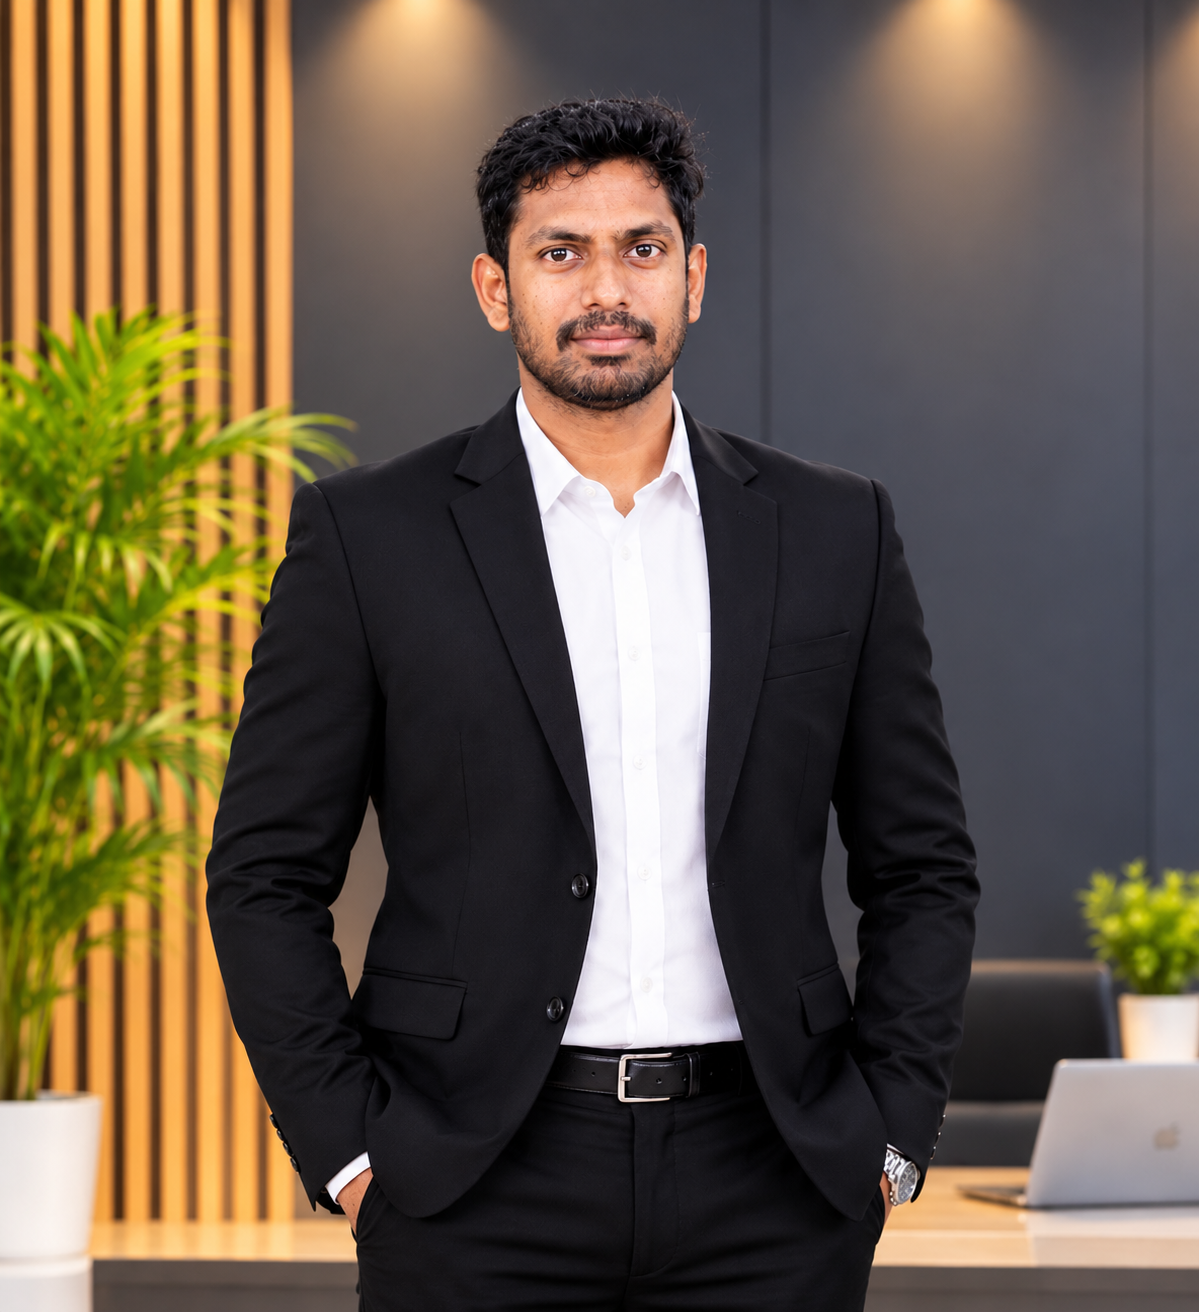
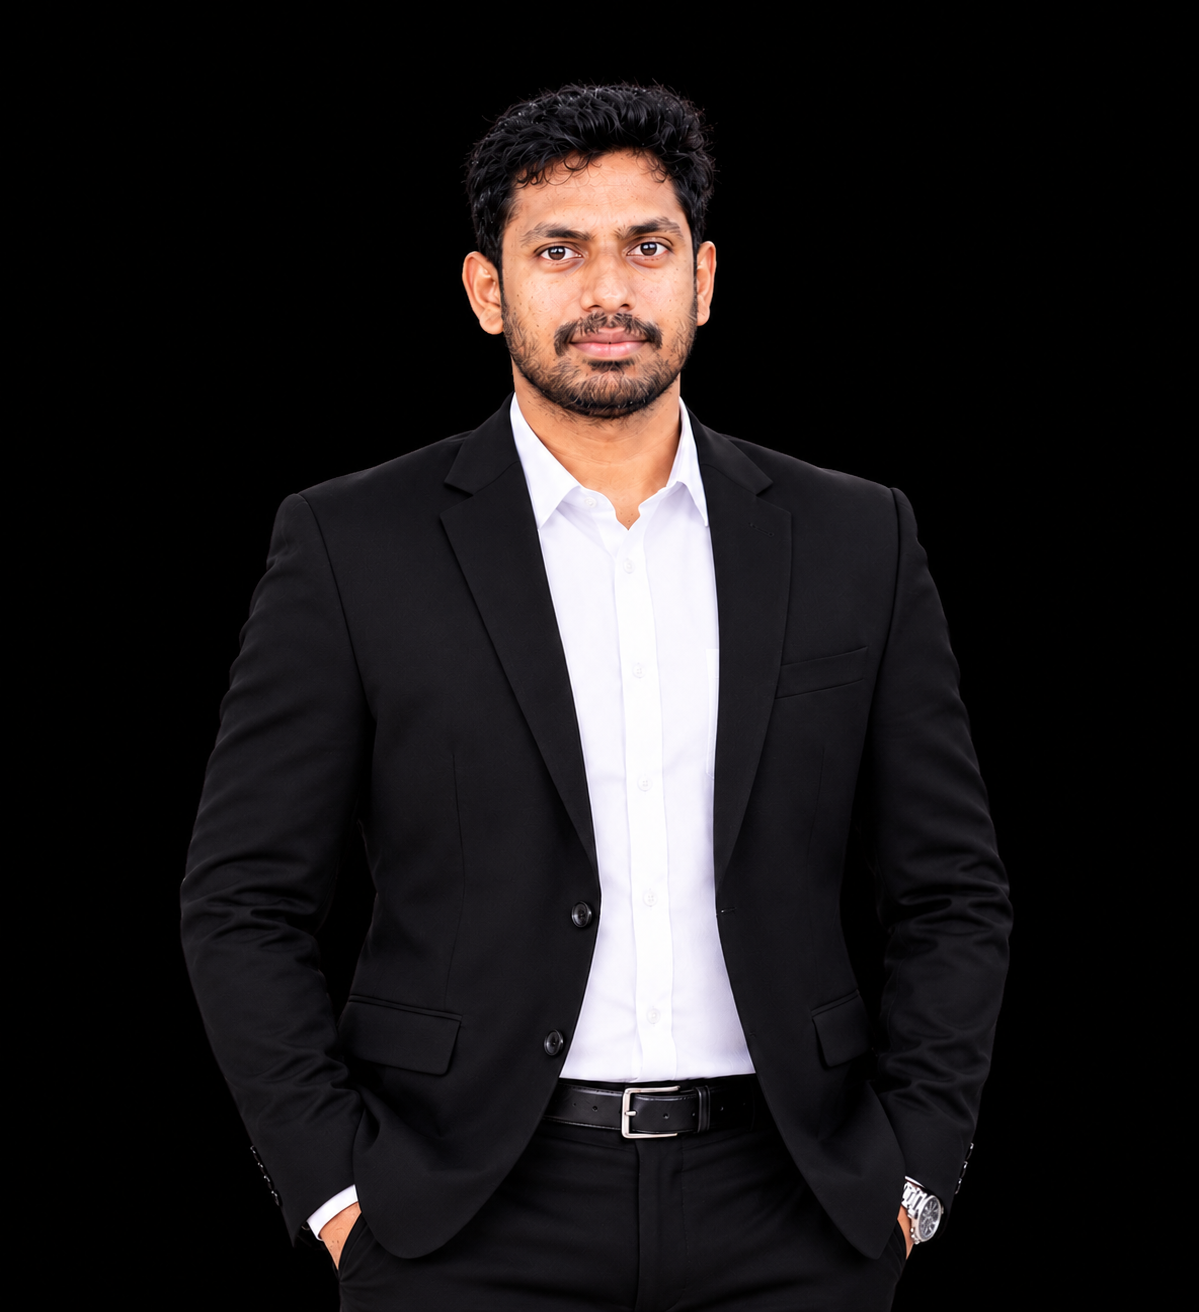
updated team profiles

diff --git a/index.html b/index.html
@@ -890,7 +890,7 @@
                   <span aria-hidden="true">SI</span
                   ><img
                     src="assets/images/team/Founder & Director.png"
-                    alt="Photo of Sriram Injarapu"
+                    alt="Photo of Founder and Director"
                     width="400"
                     height="400"
                     loading="lazy"
@@ -915,7 +915,7 @@
                 <div class="avatar">
                   <span aria-hidden="true">SP</span
                   ><img
-                    src="assets/images/team/sunil pinaka.png"
+                    src="assets/images/team/Sunil.png"
                     alt="Photo of Sunil Pinaka"
                     width="400"
                     height="400"
@@ -968,15 +968,15 @@
                 <div class="avatar">
                   <span aria-hidden="true">s</span
                   ><img
-                    src="assets/images/team/Srikanth.png"
-                    alt="Photo of srikanth"
+                    src="assets/images/team/suresh.jpg"
+                    alt="Photo of Suresh"
                     width="400"
                     height="400"
                     loading="lazy"
                   />
                 </div>
                 <div class="team-body">
-                  <h3>Srikanth</h3>
+                  <h3>Suresh</h3>
                   <p class="role">DevOps engineer</p>
                   <p>Runs pipelines and cloud infrastructure.</p>
                   <ul class="tags center">
@@ -1015,7 +1015,7 @@
                 <div class="avatar">
                   <span aria-hidden="true">PR</span
                   ><img
-                    src="assets/images/team/prasanth.jpeg"
+                    src="assets/images/team/Prasanth.png"
                     alt="Photo of Prasanth Raj"
                     width="400"
                     height="400"
